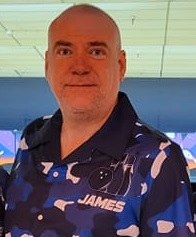
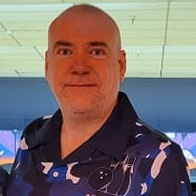
rule updates, images for mason and aricia
- also resize james image to be square

diff --git a/src/components/Contact/Contact.js b/src/components/Contact/Contact.js
@@ -3,6 +3,8 @@ import Image from "next/image";
 import scott from '@/images/contact/scott.jpg';
 import james from '@/images/contact/james.jpg';
 import joseph from '@/images/contact/joseph.jpg';
+import aricia from '@/images/contact/aricia.jpg';
+import mason from '@/images/contact/mason.jpg';
 
 import classes from './Contact.module.scss';
 
@@ -54,31 +56,10 @@ const Contact = () => {
 
         <div className={`col-6 col-sm-4 col-md-3 col-xl-2`}>
           <div className={`card ${classes.Card}`}>
-            <i className={`bi bi-person display-1`} aria-hidden={true} />
-            {/*<Image src={joseph}*/}
-            {/*       alt={'Photo of Joseph'}*/}
-            {/*       className={`img-fluid card-img-top ${classes.Image}`}*/}
-            {/*/>*/}
-            <div className={`card-body`}>
-              <p className={`${classes.Name}`}>
-                <a href={'mailto:secretary@shiftid.org?subject=About%20SHIFTID'}>
-                  Aricia Grant
-                </a>
-              </p>
-              <p className={classes.Role}>
-                Secretary
-              </p>
-            </div>
-          </div>
-        </div>
-
-        <div className={`col-6 col-sm-4 col-md-3 col-xl-2`}>
-          <div className={`card ${classes.Card}`}>
-            <i className={`bi bi-person display-1`} aria-hidden={true}/>
-            {/*<Image src={joseph}*/}
-            {/*       alt={'Photo of Joseph'}*/}
-            {/*       className={`img-fluid card-img-top ${classes.Image}`}*/}
-            {/*/>*/}
+            <Image src={mason}
+                   alt={'Photo of Mason'}
+                   className={`img-fluid card-img-top ${classes.Image}`}
+            />
             <div className={`card-body`}>
               <p className={`${classes.Name}`}>
                 <a href={'mailto:statistician@shiftid.org?subject=About%20SHIFTID'}>
@@ -86,7 +67,26 @@ const Contact = () => {
                 </a>
               </p>
               <p className={classes.Role}>
-                Statistician
+                Secretary / Statistician
+              </p>
+            </div>
+          </div>
+        </div>
+
+        <div className={`col-6 col-sm-4 col-md-3 col-xl-2`}>
+          <div className={`card ${classes.Card}`}>
+            <Image src={aricia}
+                   alt={'Photo of Aricia'}
+                   className={`img-fluid card-img-top ${classes.Image}`}
+            />
+            <div className={`card-body`}>
+              <p className={`${classes.Name}`}>
+                <a href={'mailto:agrant311@aol.com?subject=About%20SHIFTID'}>
+                  Aricia Grant
+                </a>
+              </p>
+              <p className={classes.Role}>
+                Committee Member
               </p>
             </div>
           </div>

diff --git a/src/components/TournamentRules/TournamentRules.js b/src/components/TournamentRules/TournamentRules.js
@@ -41,15 +41,13 @@ const TournamentRules = () => {
 1.  Averages will be verified based on league data available from USBC at www.bowl.com.`;
 
 const registrationRules = `
-1.  The tournament entry fee is $120.00 per bowler. That fee is broken down as follows:
+1.  The tournament entry fee is $120 per bowler. That fee is broken down as follows:
 
-    Prize Fund: $70.00
+    Prize Fund: $70
     
-    Lineage: $31.50
+    Lineage: $36
     
-    Tournament Expenses: $17.75
-    
-    IGBO Donation: $0.75
+    Tournament Expenses: $14
 
 1.  The Prize Fund will be returned 100%.
 1.  Tournament expenses include other costs of running the tournament.
@@ -57,7 +55,7 @@ const registrationRules = `
 1.  All entry fees, including cash payments, must be paid in full by the official entry deadline and will not be refunded except at the Tournament Director’s discretion.`;
 
 const optionalScratchRules = `
-1.  The Optional Scratch event is available to all participants for an additional entry fee of $30.00. Optional Scratch entry fees may be paid at the time of tournament entry or during registration as long as the fee is paid before the first ball is rolled in competition.
+1.  The Optional Scratch event is available to all participants for an additional entry fee of $30. Optional Scratch entry fees may be paid at the time of tournament entry or during registration as long as the fee is paid before the first ball is rolled in competition.
 1.  The Optional Scratch qualifying scores will consist of the total scratch scores for the nine (9) games in the Singles, Doubles and Team events. Optional Scratch divisions are as follows:
 
     Division A: Averages 205-300
@@ -76,15 +74,15 @@ const scratchMastersRules = `
 1.  Scratch Masters is an optional event available to all participants for an additional entry fee based on the participant’s average division.
 1.  Divisions and Entry fees for this optional event is based on average divisions as follows:
 
-    Division A: Averages 205-300 &ndash; $55.00
+    Division A: Averages 205-300 &ndash; $55
     
-    Division B: Averages 190-204 &ndash; $50.00
+    Division B: Averages 190-204 &ndash; $50
     
-    Division C: Averages 175-189 &ndash; $40.00
+    Division C: Averages 175-189 &ndash; $40
     
-    Division D: Averages 160-174 &ndash; $30.00
+    Division D: Averages 160-174 &ndash; $30
     
-    Division E: Averages 0-159 &ndash; $25.00
+    Division E: Averages 0-159 &ndash; $25
     
 1.  All PBA, PWBA, or Team USA members will be classified in Division E, regardless of average.
 1.  Qualifying will be based on the bowler’s scratch scores (without handicap) bowled during the Singles, Doubles, and Team events. 
